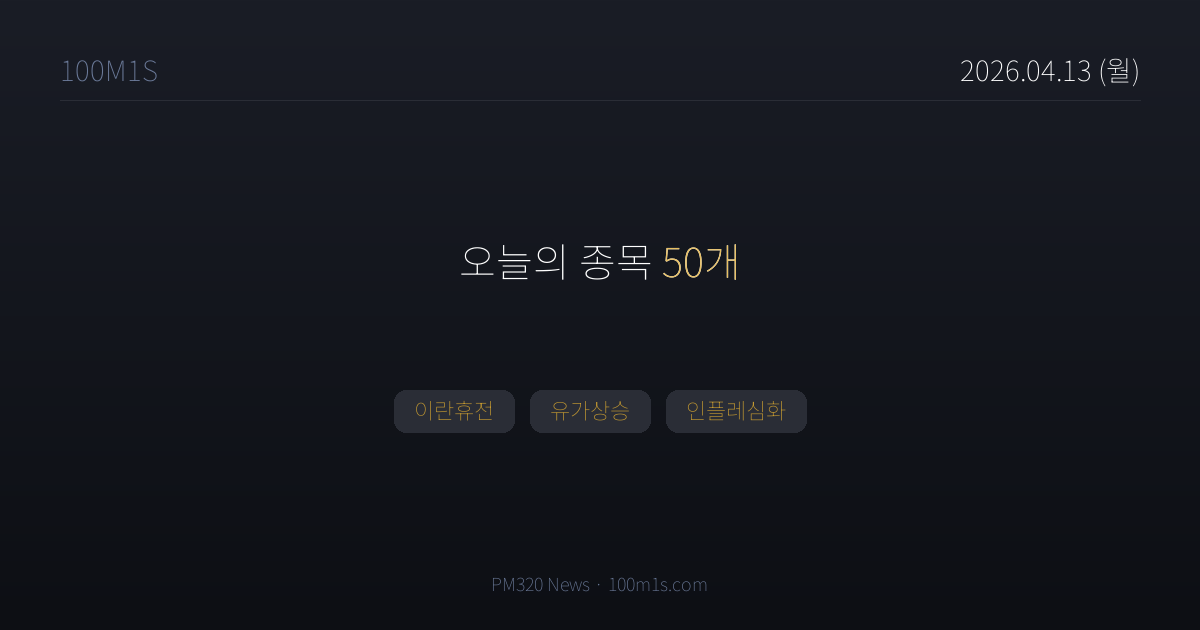
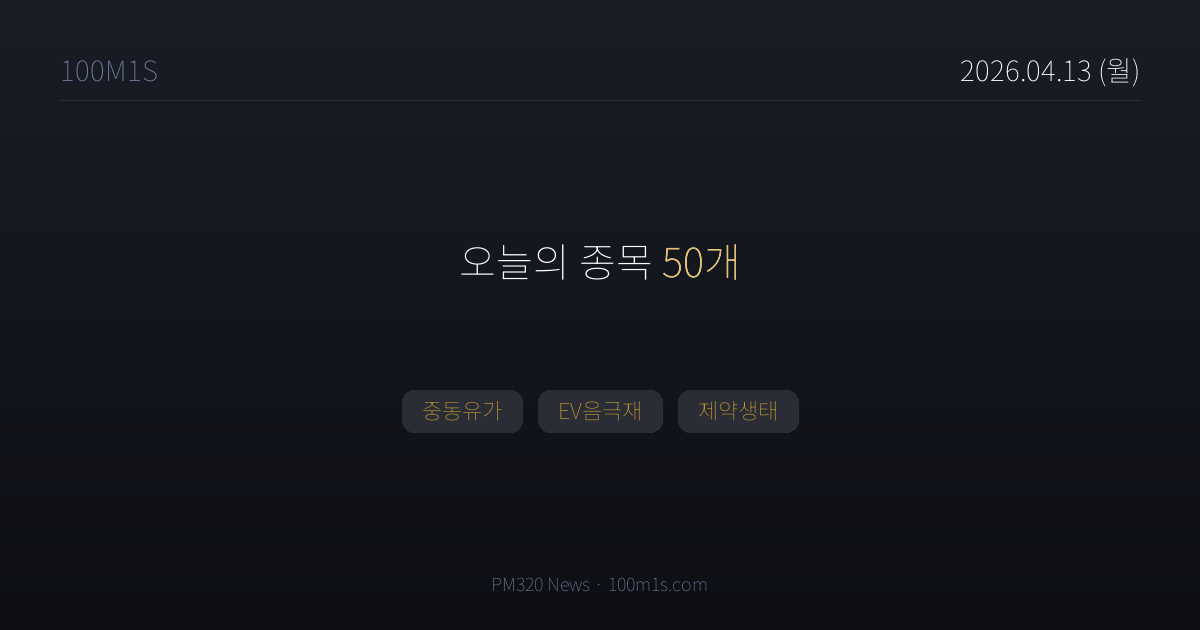
chore(news): 2026-04-13T01:44 pipeline

Changed region(s): [[0.3083, 0.6032, 0.6783, 0.6937]]

diff --git a/news/2026-04-13.html b/news/2026-04-13.html
@@ -4,7 +4,7 @@
 <meta charset="UTF-8">
 <title>4월 13일 (월) 뉴스 — 100M1S</title>
 <meta property="og:title" content="4월 13일 (월) · 종목 50개">
-<meta property="og:description" content="이란휴전, 유가상승, 인플레심화">
+<meta property="og:description" content="중동유가, EV음극재, 제약생태">
 <meta property="og:image" content="https://100m1s.com/og/2026-04-13.png">
 <meta property="og:image:width" content="1200">
 <meta property="og:image:height" content="630">
